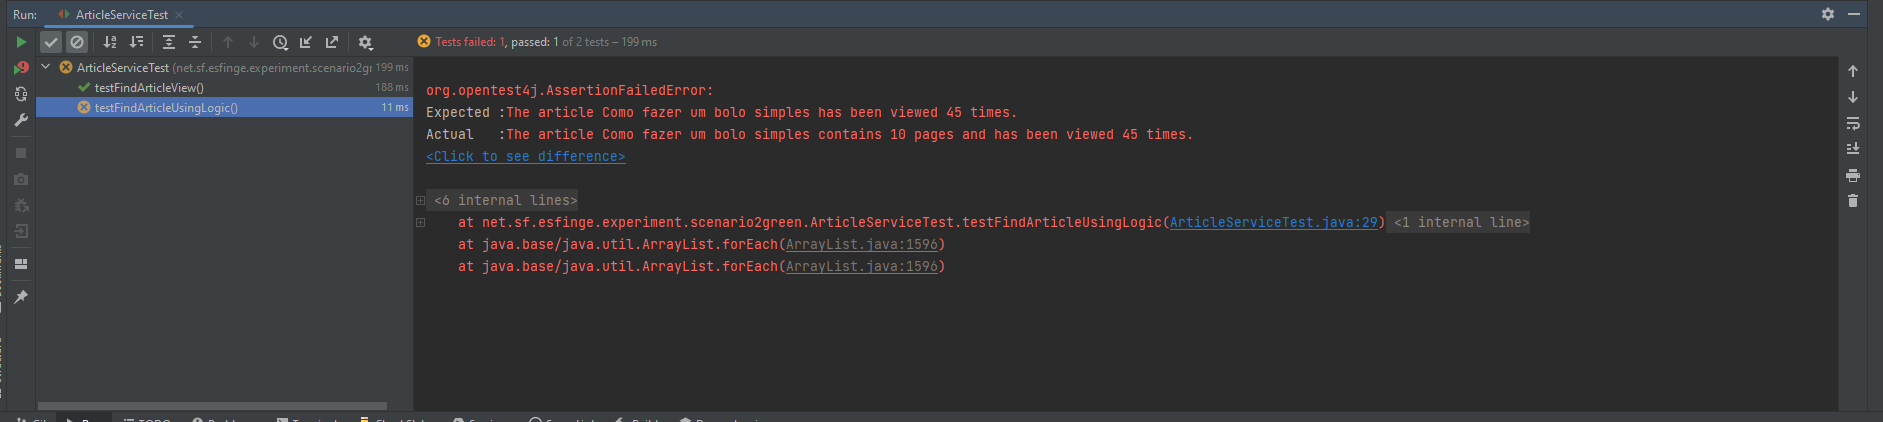
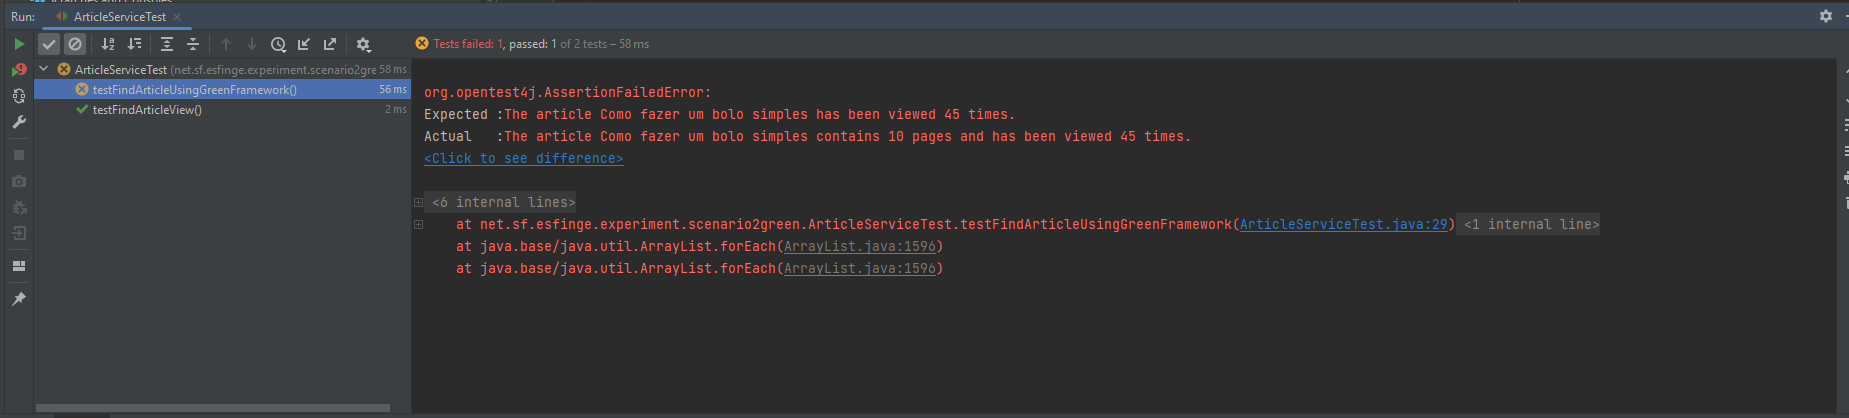
adjusting text

diff --git a/src/test/java/net/sf/esfinge/experiment/scenario2green/ArticleServiceTest.java b/src/test/java/net/sf/esfinge/experiment/scenario2green/ArticleServiceTest.java
@@ -20,7 +20,7 @@ class ArticleServiceTest {
     }
 
     @Test
-    void testFindArticleUsingLogic() {
+    void testFindArticleUsingGreenFramework() {
         ArticleService articleService = new ArticleService();
         articleService.saveConsumptionEnergy(true);
 
